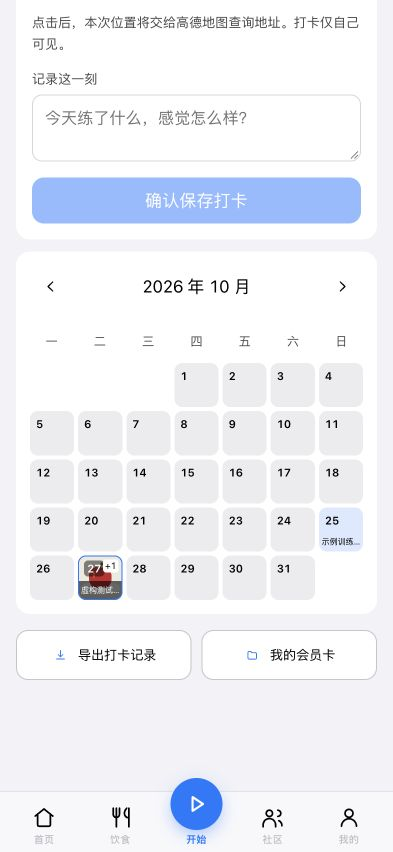
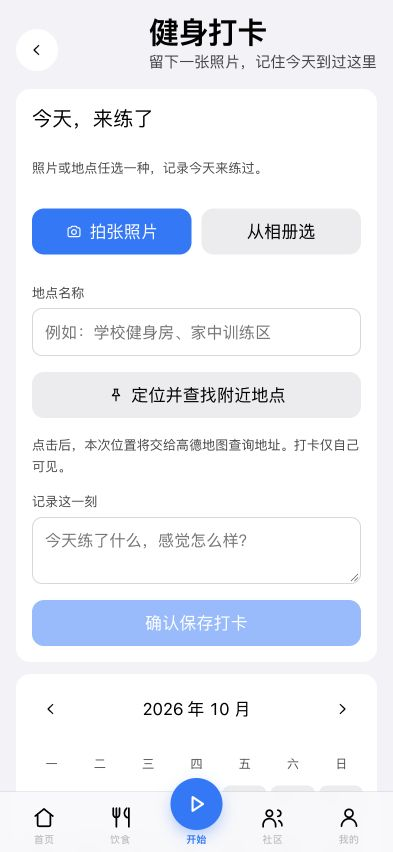
Keep calendar photo and location preview on the same check-in

diff --git a/frontend/src/components/CheckInCalendar.jsx b/frontend/src/components/CheckInCalendar.jsx
@@ -8,5 +8,5 @@ export default function CheckInCalendar({checkins=[]}){
  const groups=useMemo(()=>{const map={};for(const row of checkins){const d=isoDate(new Date(row.at));(map[d]||=[]).push(row)}return map},[checkins]);
  const first=new Date(month+'-01T12:00:00'),offset=(first.getDay()+6)%7,count=new Date(first.getFullYear(),first.getMonth()+1,0).getDate(),cells=Math.ceil((offset+count)/7)*7
  const shift=n=>{const d=new Date(month+'-01T12:00:00');d.setMonth(d.getMonth()+n);setMonth(isoDate(d).slice(0,7))}
- return <section className="card checkin-calendar"><header className="life-section-head"><button className="life-icon" aria-label="上个月" onClick={()=>shift(-1)}><Icon name="chevronLeft"/></button><h2>{first.getFullYear()} 年 {first.getMonth()+1} 月</h2><button className="life-icon" aria-label="下个月" onClick={()=>shift(1)}><Icon name="chevronRight"/></button></header><div className="checkin-calendar-week" aria-hidden="true">{['一','二','三','四','五','六','日'].map(x=><span key={x}>{x}</span>)}</div><div className="checkin-calendar-grid">{Array.from({length:cells},(_,i)=>{const day=i-offset+1;if(day<1||day>count)return <span key={'blank'+i}/>;const date=month+'-'+String(day).padStart(2,'0'),rows=groups[date]||[],photo=rows.find(r=>r.photo)?.photo;return <button key={date} className={(rows.length?'has-checkin ':'')+(photo?'with-photo ':'')+(date===isoDate(new Date())?'today':'')} onClick={()=>setSelected(date)} aria-label={`${date}，${rows.length} 次打卡`}><span className="calendar-day">{day}</span>{photo&&<CommunityImage id={photo} alt=""/>}{rows.length>0&&<><span className="calendar-place">{Array.from(rows[0].place||'照片打卡').slice(0,4).join('')}{Array.from(rows[0].place||'照片打卡').length>4?'…':''}</span>{rows.length>1&&<small className="calendar-count">+{rows.length-1}</small>}</>}</button>})}</div>{!Object.keys(groups).some(x=>x.startsWith(month))&&<p className="calendar-empty">这个月还没有打卡</p>}{selected&&<NextModal title={selected+' · 打卡'} onClose={()=>setSelected(null)}>{(groups[selected]||[]).length?(groups[selected]||[]).map(row=><article className="checkin-day-detail" key={row.id}>{row.photo&&<CommunityImage id={row.photo} alt="私人打卡照片"/>}<h3>{row.place||'照片打卡'}</h3><time>{new Date(row.at).toLocaleTimeString('zh-CN',{hour:'2-digit',minute:'2-digit'})}</time>{row.note&&<p>{row.note}</p>}</article>):<p>这一天还没有打卡。</p>}</NextModal>}</section>
+ return <section className="card checkin-calendar"><header className="life-section-head"><button className="life-icon" aria-label="上个月" onClick={()=>shift(-1)}><Icon name="chevronLeft"/></button><h2>{first.getFullYear()} 年 {first.getMonth()+1} 月</h2><button className="life-icon" aria-label="下个月" onClick={()=>shift(1)}><Icon name="chevronRight"/></button></header><div className="checkin-calendar-week" aria-hidden="true">{['一','二','三','四','五','六','日'].map(x=><span key={x}>{x}</span>)}</div><div className="checkin-calendar-grid">{Array.from({length:cells},(_,i)=>{const day=i-offset+1;if(day<1||day>count)return <span key={'blank'+i}/>;const date=month+'-'+String(day).padStart(2,'0'),rows=groups[date]||[],featured=[...rows].reverse().find(r=>r.photo)||rows.at(-1),photo=featured?.photo;return <button key={date} className={(rows.length?'has-checkin ':'')+(photo?'with-photo ':'')+(date===isoDate(new Date())?'today':'')} onClick={()=>setSelected(date)} aria-label={`${date}，${rows.length} 次打卡`}><span className="calendar-day">{day}</span>{photo&&<CommunityImage id={photo} alt=""/>}{rows.length>0&&<><span className="calendar-place">{Array.from(featured.place||'照片打卡').slice(0,4).join('')}{Array.from(featured.place||'照片打卡').length>4?'…':''}</span>{rows.length>1&&<small className="calendar-count">+{rows.length-1}</small>}</>}</button>})}</div>{!Object.keys(groups).some(x=>x.startsWith(month))&&<p className="calendar-empty">这个月还没有打卡</p>}{selected&&<NextModal title={selected+' · 打卡'} onClose={()=>setSelected(null)}>{(groups[selected]||[]).length?(groups[selected]||[]).map(row=><article className="checkin-day-detail" key={row.id}>{row.photo&&<CommunityImage id={row.photo} alt="私人打卡照片"/>}<h3>{row.place||'照片打卡'}</h3><time>{new Date(row.at).toLocaleTimeString('zh-CN',{hour:'2-digit',minute:'2-digit'})}</time>{row.note&&<p>{row.note}</p>}</article>):<p>这一天还没有打卡。</p>}</NextModal>}</section>
 }

diff --git a/frontend/src/components/NutritionRefinement.test.jsx b/frontend/src/components/NutritionRefinement.test.jsx
@@ -3,6 +3,7 @@ import React,{act} from 'react'
 import {it,expect,vi,beforeEach,afterEach} from 'vitest'
 import {createRoot} from 'react-dom/client'
 import {MemoryRouter} from 'react-router-dom'
+import CheckInCalendar from './CheckInCalendar.jsx'
 import Nutrition from '../views/Nutrition.jsx'
 import {useStore,freshState} from '../store/useStore.js'
 import {useLifestyle} from '../lib/lifestyle.js'
@@ -14,3 +15,5 @@ beforeEach(()=>{host=document.createElement('div');document.body.appendChild(hos
 afterEach(()=>{act(()=>root.unmount());host.remove();vi.unstubAllGlobals()})
 it('dates belong only to records and all four trend presentations are reachable',async()=>{await act(async()=>root.render(<MemoryRouter><Nutrition/></MemoryRouter>));expect(host.querySelector('[aria-label="饮食日期"]')).toBeTruthy();for(const id of ['plan','foods','trends']){await act(async()=>host.querySelector('#nutrition-tab-'+id).click());expect(host.querySelector('[aria-label="饮食日期"]')).toBeNull();expect(host.querySelector('.nutrition-date-nav')).toBeNull()}for(const label of ['条形图','折线图','圆环图','表格']){const b=[...host.querySelectorAll('[role=tab]')].find(b=>b.textContent===label);expect(b).toBeTruthy();await act(async()=>b.click());expect(b.getAttribute('aria-selected')).toBe('true')}})
 it('preserves a logged zero while missing meals and missing macros remain null',()=>{const stats=nutritionStats([{date:'2026-10-27',type:'breakfast',items:[{name:'零热量记录',calories:0,protein:null,carbs:0,fat:null}]}],'2026-10-27','week');const rows=trendRows(stats,'week'),day=rows.find(r=>r.key==='2026-10-27');expect(day.value).toBe(0);expect(day.protein).toBe(null);expect(day.carbs).toBe(0);expect(rows.find(r=>r.key==='2026-10-26').value).toBe(null)})
+
+it('calendar photo preview labels the same featured check-in and detail retains every entry',async()=>{const now=Date.now();await act(async()=>root.render(<MemoryRouter><CheckInCalendar checkins={[{id:'old',at:now-1000,photo:'old-photo',place:'旧地点',note:'旧备注'},{id:'new',at:now,photo:'new-photo',place:'新地点',note:'新备注'}]}/></MemoryRouter>));expect(host.querySelector('.calendar-place').textContent).toBe('新地点');expect(host.querySelector('.calendar-count').textContent).toBe('+1');await act(async()=>host.querySelector('.has-checkin').click());expect(host.querySelector('[role=dialog]').textContent).toContain('旧备注');expect(host.querySelector('[role=dialog]').textContent).toContain('新备注')})

diff --git a/docs/REFINEMENT_20261027.md b/docs/REFINEMENT_20261027.md
@@ -22,7 +22,7 @@ Original editorial links are stored alongside the cards in `frontend/src/lib/nut
 
 ## Validation
 
-- Frontend: 85 tests passed across 10 relevant suites (nutrition, history, offline persistence, check-in wallet, media, growth and navigation).
+- Frontend: 86 tests passed across 10 relevant suites (nutrition, history, offline persistence, check-in wallet, media, growth and navigation).
 - Node API: 28 tests passed, including four-meal atomic validation, retry deduplication, recording conversion, private account isolation and nutrition metadata history.
 - Cloudflare: 52 tests passed against local D1/R2/runtime, including the new day-plan persistence route.
 - Production frontend build passed. Existing bundle/dynamic-import notices remain.
